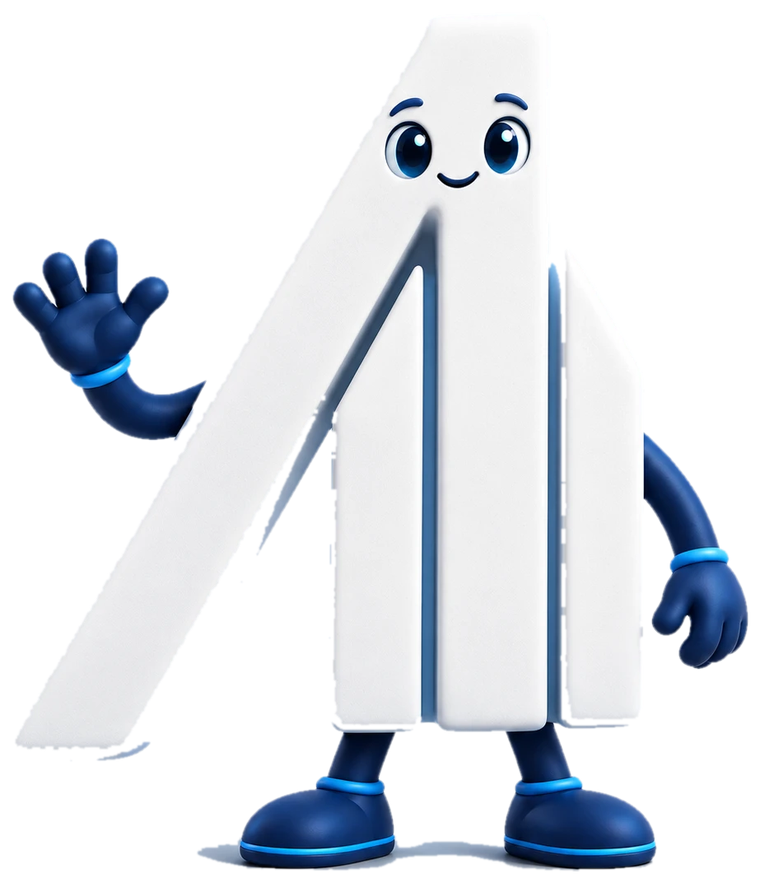
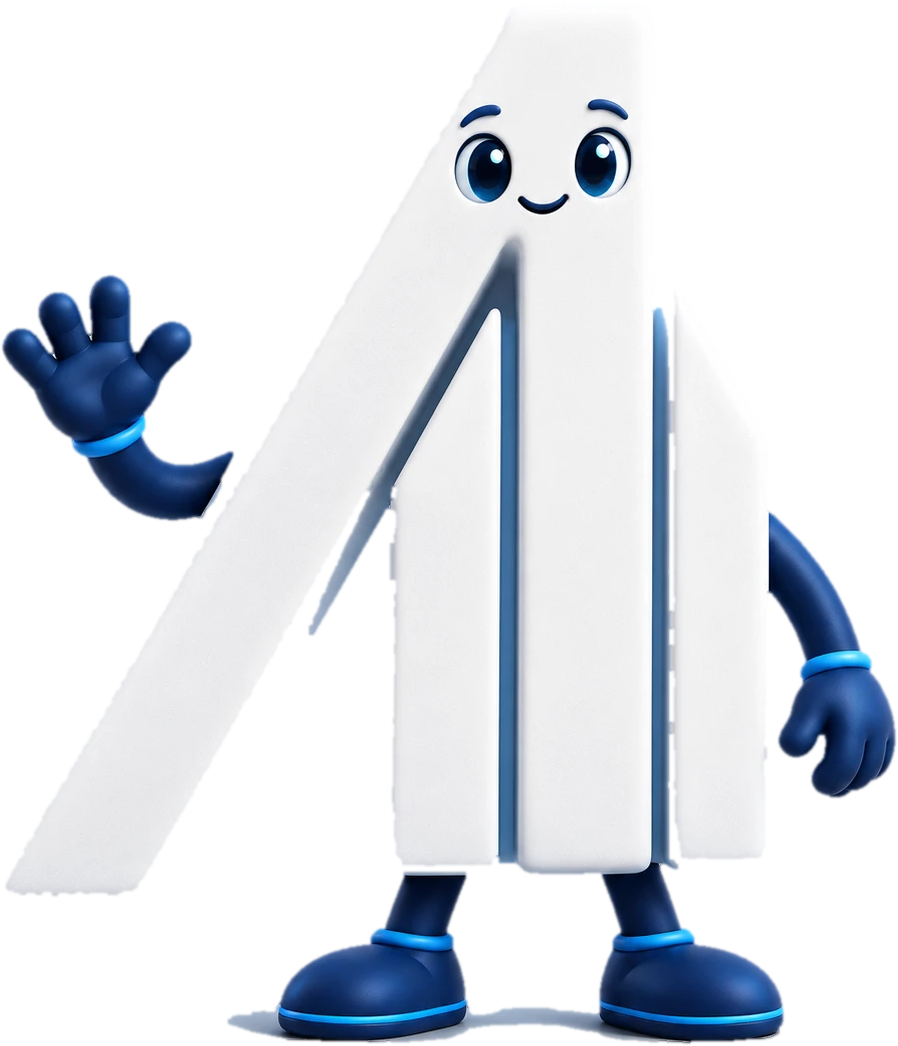
v6.5: mascote A&M com recorte refeito e metade A&M em azul-claro
O recorte antigo tinha fragmentos soltos, borda em degrau e as faces internas
do "A" vazadas, que apareciam como buracos sobre o fundo cinza. Novo PNG a
partir da versão em alta resolução: remove ilhas pequenas, suaviza o contorno
(abertura/fechamento + leve desfoque) e faz sangria de cor na borda. A metade
A&M da capa passa para azul-claro com textos em navy, e o balão da pergunta
ganha borda laranja para destacar sobre o fundo claro.

Claude-Session: https://claude.ai/code/session_016J8UaPHBYRtYtKWPJFY9ue

diff --git a/metodologia-totvs-am/video/index.html b/metodologia-totvs-am/video/index.html
@@ -102,6 +102,7 @@
   .halfp{position:absolute;top:0;bottom:0;width:50%;z-index:8;display:flex;flex-direction:column;justify-content:center;align-items:center;gap:18px}
   .halfp .ht{font-size:64px;font-weight:800;color:#fff;letter-spacing:-.01em}
   #i0-hl,#i0-hr{z-index:21} #i0-x{z-index:22!important} #i0-ask{z-index:23!important}
+  #i0-hr .hs{color:#4A5A72!important} #i0-hr .ht{color:#0B2545}
   .halfp .hs{font-family:var(--mono);font-size:19px;font-weight:600;letter-spacing:.22em;color:rgba(255,255,255,.75)}
 
   /* a1 tipografia cinética */
@@ -271,15 +272,15 @@
         <img src="assets/mascote-totvs.png" style="height:400px;display:inline-block;filter:drop-shadow(0 18px 32px rgba(0,0,0,.38))">
       </div>
     </div>
-    <div class="halfp willchange" id="i0-hr" style="right:0;background:linear-gradient(200deg,#5E6E86,#4A5A72)">
+    <div class="halfp willchange" id="i0-hr" style="right:0;background:linear-gradient(200deg,#E4EBF5,#C9D6E8)">
       <div class="hs">MÉTODO E GOVERNANÇA</div><div class="ht logo-am" style="font-size:56px">ALVAREZ <b>&amp;</b> MARSAL</div>
       <div class="hs" style="letter-spacing:.14em;opacity:.6">TMO · PMO + GMO</div>
       <div class="abs willchange" id="i0-ma" style="left:0;right:0;bottom:-6px;text-align:center;transform-origin:50% 100%">
-        <img src="assets/mascote-am.png" style="height:430px;display:inline-block;filter:drop-shadow(0 18px 32px rgba(0,0,0,.30))">
+        <img src="assets/mascote-am.png" style="height:430px;display:inline-block;filter:drop-shadow(0 18px 30px rgba(11,37,69,.22))">
       </div>
     </div>
     <div class="abs willchange" id="i0-ask" style="left:0;right:0;top:132px;text-align:center;z-index:10">
-      <span style="display:inline-flex;align-items:center;gap:14px;background:#fff;border-radius:999px;padding:18px 40px;box-shadow:0 18px 44px rgba(0,0,0,.28);font-family:var(--mono);font-weight:700;font-size:24px;letter-spacing:.16em;color:var(--ink)"><span class="cdot" style="width:12px;height:12px;border-radius:50%;background:var(--acc);display:inline-block"></span>VAMOS ENTENDER ESSA PARCERIA?</span>
+      <span style="display:inline-flex;align-items:center;gap:14px;background:#fff;border:2px solid var(--acc);border-radius:999px;padding:18px 40px;box-shadow:0 18px 44px rgba(0,0,0,.28);font-family:var(--mono);font-weight:700;font-size:24px;letter-spacing:.16em;color:var(--ink)"><span class="cdot" style="width:12px;height:12px;border-radius:50%;background:var(--acc);display:inline-block"></span>VAMOS ENTENDER ESSA PARCERIA?</span>
     </div>
     <div class="abs willchange" id="i0-x" style="left:50%;top:50%;z-index:9;transform:translate(-50%,-50%)">
       <div style="width:120px;height:120px;border-radius:50%;background:#fff;box-shadow:0 20px 50px rgba(11,37,69,.3);display:flex;align-items:center;justify-content:center;font-size:54px;font-weight:800;color:var(--acc)">×</div>
